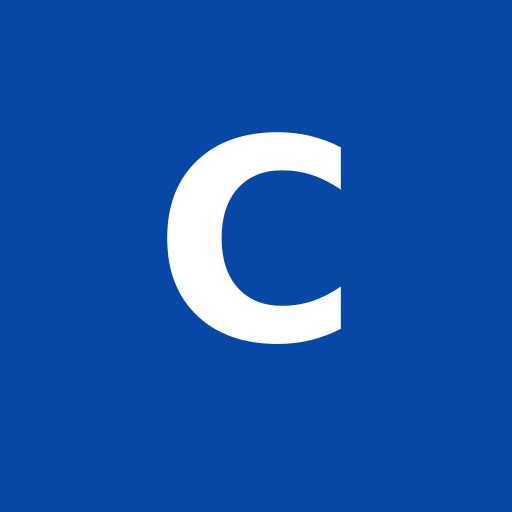
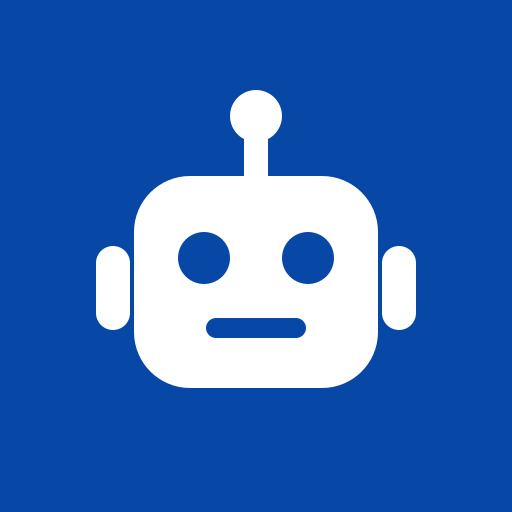
Cambiar el icono de la app por un robot
Cashy se usa hablándole a un bot de Telegram, así que un robot refleja el
uso real mejor que la "C" genérica que había.

- Robot dibujado con formas sólidas (cabeza, ojos, antena, orejas) en vez
  de trazos finos: a 32px un icono de línea se empasta, uno relleno no.
  Ocupa ~19% del lienzo en blanco sobre el azul de marca.
- Sin elementos <text>: el SVG también se sirve como favicon y lo rasteriza
  cada navegador, así que depender de una fuente del sistema sería frágil.
- Se regeneran los cuatro tamaños desde el mismo SVG: 192 y 512 para el
  manifest, 180 para iOS y 32 para la pestaña. Los de pantalla de inicio
  van aplanados (el sistema aplica su máscara) y el favicon conserva alfa.

Verificado en Chromium: los tres links quedan en el DOM y el navegador
carga icon.svg con 200. Los PNG del build conservan el dibujo tras la
optimización de Vite.

350 tests verdes, check:tenant OK, las 6 vistas sin errores.

Claude-Session: https://claude.ai/code/session_01K2egLp1Hjr43YP9gEcXUth

Changed region(s): [[0.1875, 0.1562, 0.8125, 0.7812]]

diff --git a/dashboard/dist/sw.js b/dashboard/dist/sw.js
@@ -1,1 +1,1 @@
-if(!self.define){let e,i={};const n=(n,s)=>(n=new URL(n+".js",s).href,i[n]||new Promise(i=>{if("document"in self){const e=document.createElement("script");e.src=n,e.onload=i,document.head.appendChild(e)}else e=n,importScripts(n),i()}).then(()=>{let e=i[n];if(!e)throw new Error(`Module ${n} didn’t register its module`);return e}));self.define=(s,r)=>{const o=e||("document"in self?document.currentScript.src:"")||location.href;if(i[o])return;let t={};const c=e=>n(e,o),d={module:{uri:o},exports:t,require:c};i[o]=Promise.all(s.map(e=>d[e]||c(e))).then(e=>(r(...e),t))}}define(["./workbox-9c191d2f"],function(e){"use strict";self.skipWaiting(),e.clientsClaim(),e.precacheAndRoute([{url:"registerSW.js",revision:"1872c500de691dce40960bb85481de07"},{url:"index.html",revision:"9afe0f7fe924346ef296570020b74306"},{url:"assets/index-Dp5vCrZv.js",revision:null},{url:"assets/index-Bh3Kg9Ns.css",revision:null},{url:"apple-touch-icon.png",revision:"ba2d34cda4e28d8f68e9b71602a3bf2e"},{url:"favicon-32.png",revision:"b55a474a7e13225ccbee9031538ca7e2"},{url:"icon-192.png",revision:"30067f42723e711f24bb2f2fb890aefd"},{url:"icon-512.png",revision:"de776431bfc1860e5bf30b64decdb6bf"},{url:"icon.svg",revision:"a34fe5e787dc60e02d448a1a317deb4c"},{url:"manifest.webmanifest",revision:"59520db9966b2158f7097ed434d781cd"}],{}),e.cleanupOutdatedCaches(),e.registerRoute(new e.NavigationRoute(e.createHandlerBoundToURL("index.html")))});
+if(!self.define){let e,i={};const n=(n,s)=>(n=new URL(n+".js",s).href,i[n]||new Promise(i=>{if("document"in self){const e=document.createElement("script");e.src=n,e.onload=i,document.head.appendChild(e)}else e=n,importScripts(n),i()}).then(()=>{let e=i[n];if(!e)throw new Error(`Module ${n} didn’t register its module`);return e}));self.define=(s,r)=>{const o=e||("document"in self?document.currentScript.src:"")||location.href;if(i[o])return;let c={};const t=e=>n(e,o),l={module:{uri:o},exports:c,require:t};i[o]=Promise.all(s.map(e=>l[e]||t(e))).then(e=>(r(...e),c))}}define(["./workbox-9c191d2f"],function(e){"use strict";self.skipWaiting(),e.clientsClaim(),e.precacheAndRoute([{url:"registerSW.js",revision:"1872c500de691dce40960bb85481de07"},{url:"index.html",revision:"9afe0f7fe924346ef296570020b74306"},{url:"assets/index-Dp5vCrZv.js",revision:null},{url:"assets/index-Bh3Kg9Ns.css",revision:null},{url:"apple-touch-icon.png",revision:"40f36f22e6498822c1683bda362b3282"},{url:"favicon-32.png",revision:"35fb6e658f60576cba14c3b7cc5d80e7"},{url:"icon-192.png",revision:"b234f78d7526f5b992438ba850b6b030"},{url:"icon-512.png",revision:"9ec5a46455530c7548e899a70fb76ee2"},{url:"icon.svg",revision:"ea32157d7c6238cc195520e17be8d705"},{url:"manifest.webmanifest",revision:"59520db9966b2158f7097ed434d781cd"}],{}),e.cleanupOutdatedCaches(),e.registerRoute(new e.NavigationRoute(e.createHandlerBoundToURL("index.html")))});
